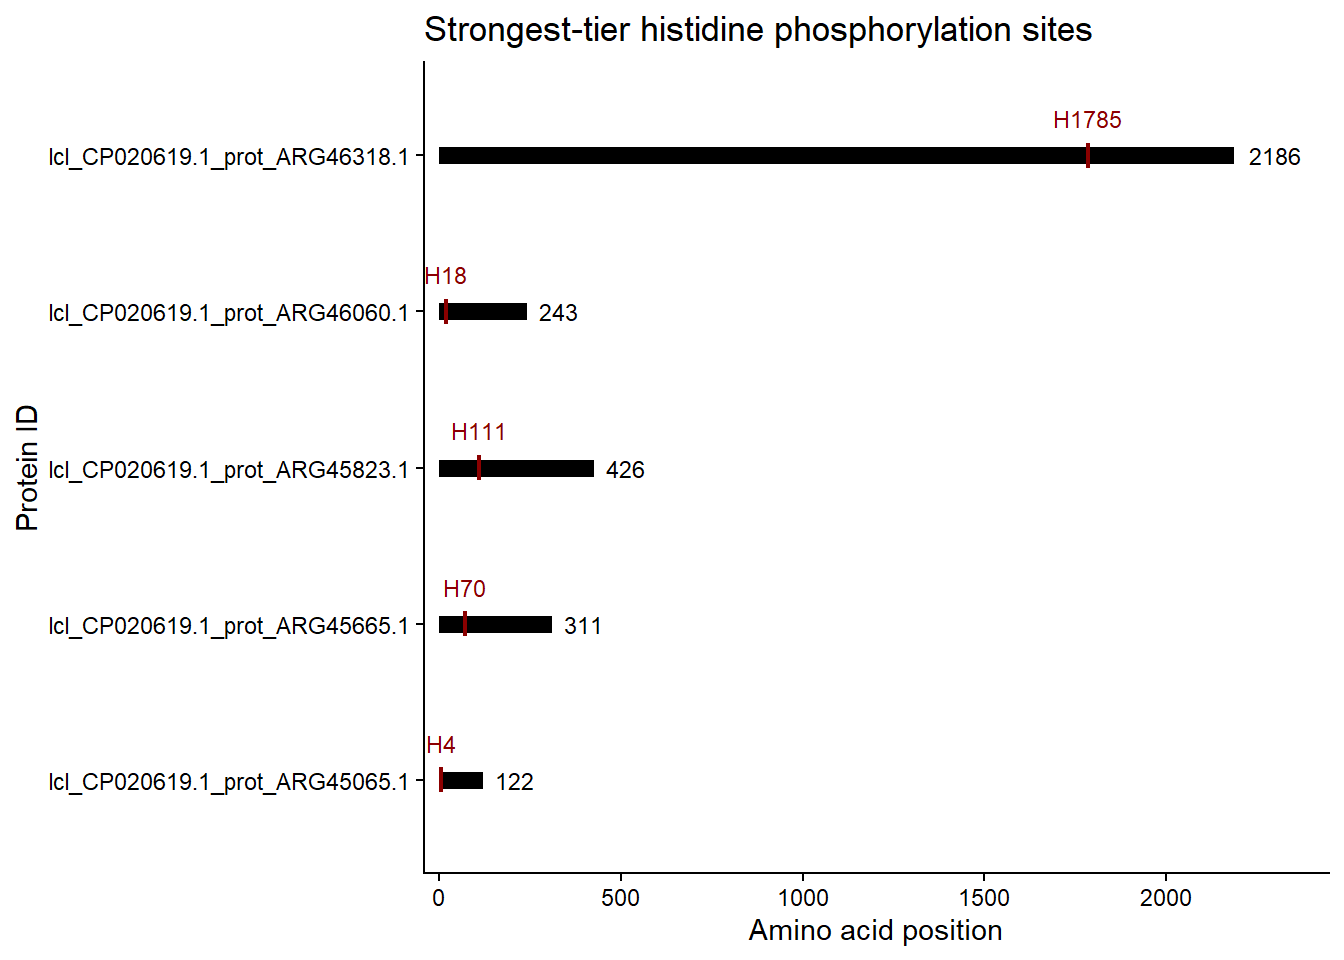
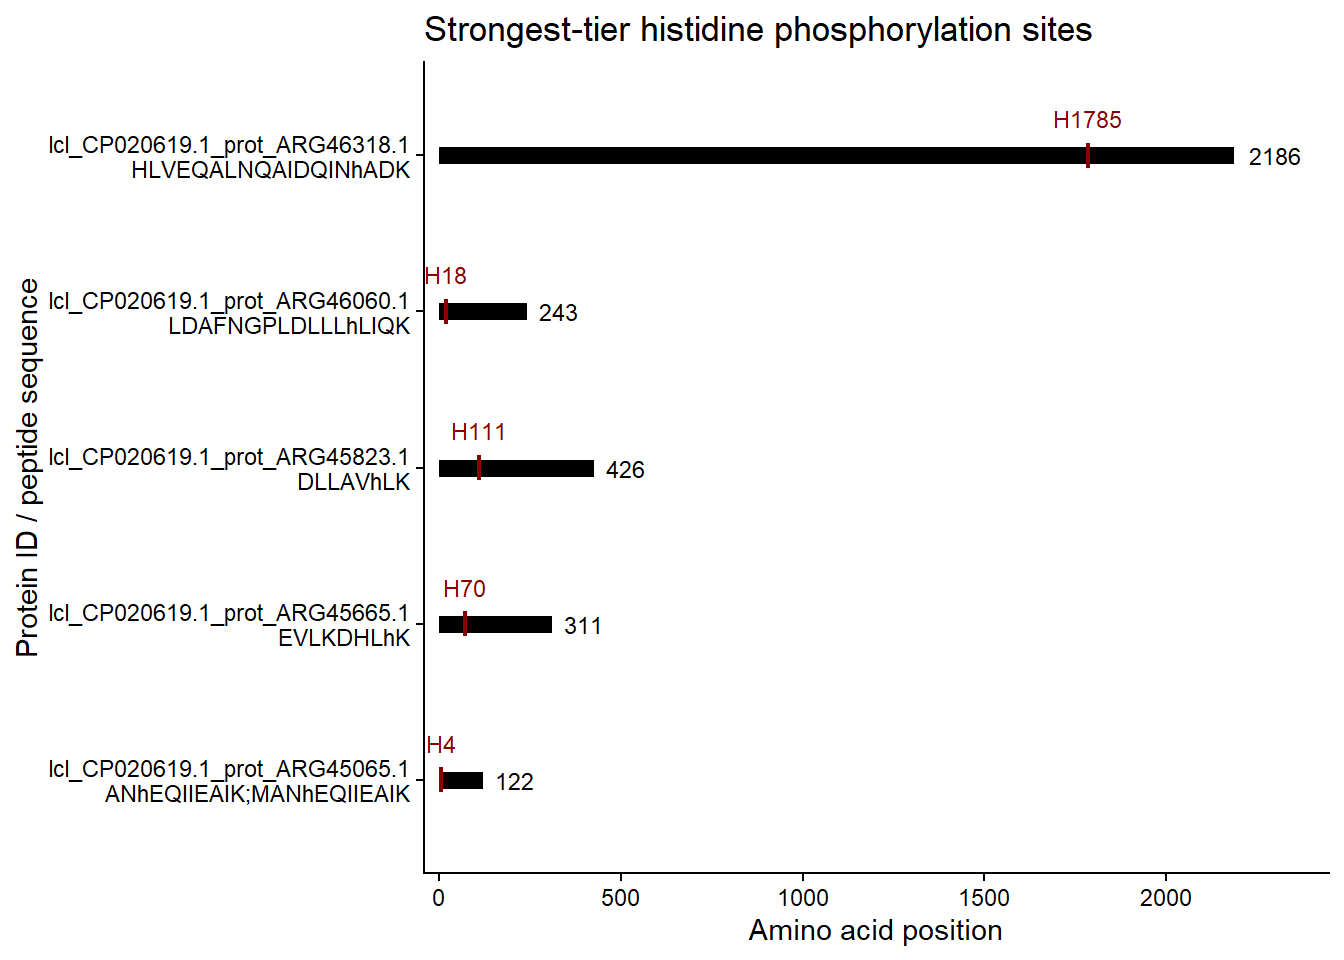
histidine kinase search + taking a look

Changed region(s): [[0.0, 0.2812, 0.3125, 0.6875], [0.0312, 0.7812, 0.3125, 0.8438], [0.0312, 0.125, 0.3125, 0.1875]]

diff --git a/Camilla_Rica/histidine_phosphoRicaCamilla.html b/Camilla_Rica/histidine_phosphoRicaCamilla.html
@@ -825,7 +825,7 @@ odds ratio
 <span id="cb65-20"><a href="#cb65-20" aria-hidden="true" tabindex="-1"></a>    <span class="at">residue =</span> stringr<span class="sc">::</span><span class="fu">str_remove</span>(residue, <span class="st">"^_"</span>)</span>
 <span id="cb65-21"><a href="#cb65-21" aria-hidden="true" tabindex="-1"></a>  ) <span class="sc">%&gt;%</span></span>
 <span id="cb65-22"><a href="#cb65-22" aria-hidden="true" tabindex="-1"></a>  dplyr<span class="sc">::</span><span class="fu">filter</span>(residue <span class="sc">==</span> <span class="st">"H"</span>) <span class="sc">%&gt;%</span></span>
-<span id="cb65-23"><a href="#cb65-23" aria-hidden="true" tabindex="-1"></a>  dplyr<span class="sc">::</span><span class="fu">distinct</span>(protein_Id, position)</span>
+<span id="cb65-23"><a href="#cb65-23" aria-hidden="true" tabindex="-1"></a>  dplyr<span class="sc">::</span><span class="fu">distinct</span>(protein_Id, position, peptide)</span>
 <span id="cb65-24"><a href="#cb65-24" aria-hidden="true" tabindex="-1"></a></span>
 <span id="cb65-25"><a href="#cb65-25" aria-hidden="true" tabindex="-1"></a><span class="co"># Standardize protein IDs and retrieve protein lengths</span></span>
 <span id="cb65-26"><a href="#cb65-26" aria-hidden="true" tabindex="-1"></a>protein_lengths <span class="ot">&lt;-</span> total_prot <span class="sc">%&gt;%</span></span>
@@ -843,58 +843,75 @@ odds ratio
 <span id="cb65-38"><a href="#cb65-38" aria-hidden="true" tabindex="-1"></a>  dplyr<span class="sc">::</span><span class="fu">inner_join</span>(protein_lengths, <span class="at">by =</span> <span class="st">"protein_Id"</span>) <span class="sc">%&gt;%</span></span>
 <span id="cb65-39"><a href="#cb65-39" aria-hidden="true" tabindex="-1"></a>  dplyr<span class="sc">::</span><span class="fu">filter</span>(<span class="sc">!</span><span class="fu">is.na</span>(protein_length))</span>
 <span id="cb65-40"><a href="#cb65-40" aria-hidden="true" tabindex="-1"></a></span>
-<span id="cb65-41"><a href="#cb65-41" aria-hidden="true" tabindex="-1"></a><span class="co"># Plot protein lengths and strongest-tier phosphorylation positions</span></span>
-<span id="cb65-42"><a href="#cb65-42" aria-hidden="true" tabindex="-1"></a>ggplot2<span class="sc">::</span><span class="fu">ggplot</span>(</span>
-<span id="cb65-43"><a href="#cb65-43" aria-hidden="true" tabindex="-1"></a>  plot_data,</span>
-<span id="cb65-44"><a href="#cb65-44" aria-hidden="true" tabindex="-1"></a>  ggplot2<span class="sc">::</span><span class="fu">aes</span>(<span class="at">y =</span> <span class="fu">factor</span>(protein_Id))</span>
-<span id="cb65-45"><a href="#cb65-45" aria-hidden="true" tabindex="-1"></a>) <span class="sc">+</span></span>
-<span id="cb65-46"><a href="#cb65-46" aria-hidden="true" tabindex="-1"></a>  ggplot2<span class="sc">::</span><span class="fu">geom_segment</span>(</span>
-<span id="cb65-47"><a href="#cb65-47" aria-hidden="true" tabindex="-1"></a>    ggplot2<span class="sc">::</span><span class="fu">aes</span>(</span>
-<span id="cb65-48"><a href="#cb65-48" aria-hidden="true" tabindex="-1"></a>      <span class="at">x =</span> <span class="dv">1</span>,</span>
-<span id="cb65-49"><a href="#cb65-49" aria-hidden="true" tabindex="-1"></a>      <span class="at">xend =</span> protein_length,</span>
-<span id="cb65-50"><a href="#cb65-50" aria-hidden="true" tabindex="-1"></a>      <span class="at">yend =</span> <span class="fu">factor</span>(protein_Id)</span>
-<span id="cb65-51"><a href="#cb65-51" aria-hidden="true" tabindex="-1"></a>    ),</span>
-<span id="cb65-52"><a href="#cb65-52" aria-hidden="true" tabindex="-1"></a>    <span class="at">linewidth =</span> <span class="dv">3</span>,</span>
-<span id="cb65-53"><a href="#cb65-53" aria-hidden="true" tabindex="-1"></a>    <span class="at">colour =</span> <span class="st">"black"</span></span>
-<span id="cb65-54"><a href="#cb65-54" aria-hidden="true" tabindex="-1"></a>  ) <span class="sc">+</span></span>
-<span id="cb65-55"><a href="#cb65-55" aria-hidden="true" tabindex="-1"></a>  ggplot2<span class="sc">::</span><span class="fu">geom_text</span>(</span>
-<span id="cb65-56"><a href="#cb65-56" aria-hidden="true" tabindex="-1"></a>    ggplot2<span class="sc">::</span><span class="fu">aes</span>(</span>
-<span id="cb65-57"><a href="#cb65-57" aria-hidden="true" tabindex="-1"></a>      <span class="at">x =</span> protein_length,</span>
-<span id="cb65-58"><a href="#cb65-58" aria-hidden="true" tabindex="-1"></a>      <span class="at">label =</span> protein_length</span>
-<span id="cb65-59"><a href="#cb65-59" aria-hidden="true" tabindex="-1"></a>    ),</span>
-<span id="cb65-60"><a href="#cb65-60" aria-hidden="true" tabindex="-1"></a>    <span class="at">hjust =</span> <span class="sc">-</span><span class="fl">0.3</span>,</span>
-<span id="cb65-61"><a href="#cb65-61" aria-hidden="true" tabindex="-1"></a>    <span class="at">colour =</span> <span class="st">"black"</span>,</span>
-<span id="cb65-62"><a href="#cb65-62" aria-hidden="true" tabindex="-1"></a>    <span class="at">size =</span> <span class="dv">3</span></span>
-<span id="cb65-63"><a href="#cb65-63" aria-hidden="true" tabindex="-1"></a>  ) <span class="sc">+</span></span>
-<span id="cb65-64"><a href="#cb65-64" aria-hidden="true" tabindex="-1"></a>  ggplot2<span class="sc">::</span><span class="fu">scale_x_continuous</span>(</span>
-<span id="cb65-65"><a href="#cb65-65" aria-hidden="true" tabindex="-1"></a>    <span class="at">expand =</span> ggplot2<span class="sc">::</span><span class="fu">expansion</span>(<span class="at">mult =</span> <span class="fu">c</span>(<span class="fl">0.02</span>, <span class="fl">0.12</span>))</span>
-<span id="cb65-66"><a href="#cb65-66" aria-hidden="true" tabindex="-1"></a>  ) <span class="sc">+</span></span>
-<span id="cb65-67"><a href="#cb65-67" aria-hidden="true" tabindex="-1"></a>  ggplot2<span class="sc">::</span><span class="fu">geom_segment</span>(</span>
-<span id="cb65-68"><a href="#cb65-68" aria-hidden="true" tabindex="-1"></a>    ggplot2<span class="sc">::</span><span class="fu">aes</span>(</span>
-<span id="cb65-69"><a href="#cb65-69" aria-hidden="true" tabindex="-1"></a>      <span class="at">x =</span> position,</span>
-<span id="cb65-70"><a href="#cb65-70" aria-hidden="true" tabindex="-1"></a>      <span class="at">xend =</span> position,</span>
-<span id="cb65-71"><a href="#cb65-71" aria-hidden="true" tabindex="-1"></a>      <span class="at">y =</span> <span class="fu">as.numeric</span>(<span class="fu">factor</span>(protein_Id)) <span class="sc">-</span> <span class="fl">0.08</span>,</span>
-<span id="cb65-72"><a href="#cb65-72" aria-hidden="true" tabindex="-1"></a>      <span class="at">yend =</span> <span class="fu">as.numeric</span>(<span class="fu">factor</span>(protein_Id)) <span class="sc">+</span> <span class="fl">0.08</span></span>
-<span id="cb65-73"><a href="#cb65-73" aria-hidden="true" tabindex="-1"></a>    ),</span>
-<span id="cb65-74"><a href="#cb65-74" aria-hidden="true" tabindex="-1"></a>    <span class="at">colour =</span> <span class="st">"darkred"</span>,</span>
-<span id="cb65-75"><a href="#cb65-75" aria-hidden="true" tabindex="-1"></a>    <span class="at">linewidth =</span> <span class="fl">0.8</span></span>
-<span id="cb65-76"><a href="#cb65-76" aria-hidden="true" tabindex="-1"></a>  ) <span class="sc">+</span></span>
-<span id="cb65-77"><a href="#cb65-77" aria-hidden="true" tabindex="-1"></a>  ggplot2<span class="sc">::</span><span class="fu">geom_text</span>(</span>
-<span id="cb65-78"><a href="#cb65-78" aria-hidden="true" tabindex="-1"></a>    ggplot2<span class="sc">::</span><span class="fu">aes</span>(</span>
-<span id="cb65-79"><a href="#cb65-79" aria-hidden="true" tabindex="-1"></a>      <span class="at">x =</span> position,</span>
-<span id="cb65-80"><a href="#cb65-80" aria-hidden="true" tabindex="-1"></a>      <span class="at">y =</span> <span class="fu">as.numeric</span>(<span class="fu">factor</span>(protein_Id)) <span class="sc">+</span> <span class="fl">0.18</span>,</span>
-<span id="cb65-81"><a href="#cb65-81" aria-hidden="true" tabindex="-1"></a>      <span class="at">label =</span> <span class="fu">paste0</span>(<span class="st">"H"</span>, position)</span>
-<span id="cb65-82"><a href="#cb65-82" aria-hidden="true" tabindex="-1"></a>    ),</span>
-<span id="cb65-83"><a href="#cb65-83" aria-hidden="true" tabindex="-1"></a>    <span class="at">colour =</span> <span class="st">"darkred"</span>,</span>
-<span id="cb65-84"><a href="#cb65-84" aria-hidden="true" tabindex="-1"></a>    <span class="at">size =</span> <span class="dv">3</span>,</span>
-<span id="cb65-85"><a href="#cb65-85" aria-hidden="true" tabindex="-1"></a>    <span class="at">vjust =</span> <span class="dv">0</span></span>
-<span id="cb65-86"><a href="#cb65-86" aria-hidden="true" tabindex="-1"></a>  ) <span class="sc">+</span></span>
-<span id="cb65-87"><a href="#cb65-87" aria-hidden="true" tabindex="-1"></a>  ggplot2<span class="sc">::</span><span class="fu">labs</span>(</span>
-<span id="cb65-88"><a href="#cb65-88" aria-hidden="true" tabindex="-1"></a>    <span class="at">title =</span> <span class="st">"Strongest-tier histidine phosphorylation sites"</span>,</span>
-<span id="cb65-89"><a href="#cb65-89" aria-hidden="true" tabindex="-1"></a>    <span class="at">x =</span> <span class="st">"Amino acid position"</span>,</span>
-<span id="cb65-90"><a href="#cb65-90" aria-hidden="true" tabindex="-1"></a>    <span class="at">y =</span> <span class="st">"Protein ID"</span></span>
-<span id="cb65-91"><a href="#cb65-91" aria-hidden="true" tabindex="-1"></a>  ) <span class="sc">+</span></span>
-<span id="cb65-92"><a href="#cb65-92" aria-hidden="true" tabindex="-1"></a>  ggplot2<span class="sc">::</span><span class="fu">theme_classic</span>()</span></code></pre></div><button title="Copy to Clipboard" class="code-copy-button"><i class="bi"></i></button></div>
+<span id="cb65-41"><a href="#cb65-41" aria-hidden="true" tabindex="-1"></a><span class="co"># Create labels with protein ID and peptide sequence</span></span>
+<span id="cb65-42"><a href="#cb65-42" aria-hidden="true" tabindex="-1"></a>protein_labels <span class="ot">&lt;-</span> plot_data <span class="sc">%&gt;%</span></span>
+<span id="cb65-43"><a href="#cb65-43" aria-hidden="true" tabindex="-1"></a>  dplyr<span class="sc">::</span><span class="fu">group_by</span>(protein_Id) <span class="sc">%&gt;%</span></span>
+<span id="cb65-44"><a href="#cb65-44" aria-hidden="true" tabindex="-1"></a>  dplyr<span class="sc">::</span><span class="fu">summarise</span>(</span>
+<span id="cb65-45"><a href="#cb65-45" aria-hidden="true" tabindex="-1"></a>    <span class="at">peptide =</span> <span class="fu">paste</span>(<span class="fu">unique</span>(peptide), <span class="at">collapse =</span> <span class="st">"; "</span>),</span>
+<span id="cb65-46"><a href="#cb65-46" aria-hidden="true" tabindex="-1"></a>    <span class="at">.groups =</span> <span class="st">"drop"</span></span>
+<span id="cb65-47"><a href="#cb65-47" aria-hidden="true" tabindex="-1"></a>  ) <span class="sc">%&gt;%</span></span>
+<span id="cb65-48"><a href="#cb65-48" aria-hidden="true" tabindex="-1"></a>  dplyr<span class="sc">::</span><span class="fu">mutate</span>(</span>
+<span id="cb65-49"><a href="#cb65-49" aria-hidden="true" tabindex="-1"></a>    <span class="at">axis_label =</span> <span class="fu">paste0</span>(protein_Id, <span class="st">"</span><span class="sc">\n</span><span class="st">"</span>, peptide)</span>
+<span id="cb65-50"><a href="#cb65-50" aria-hidden="true" tabindex="-1"></a>  )</span>
+<span id="cb65-51"><a href="#cb65-51" aria-hidden="true" tabindex="-1"></a></span>
+<span id="cb65-52"><a href="#cb65-52" aria-hidden="true" tabindex="-1"></a><span class="co"># Plot protein lengths and tier1 phosphorylation positions</span></span>
+<span id="cb65-53"><a href="#cb65-53" aria-hidden="true" tabindex="-1"></a>ggplot2<span class="sc">::</span><span class="fu">ggplot</span>(</span>
+<span id="cb65-54"><a href="#cb65-54" aria-hidden="true" tabindex="-1"></a>  plot_data,</span>
+<span id="cb65-55"><a href="#cb65-55" aria-hidden="true" tabindex="-1"></a>  ggplot2<span class="sc">::</span><span class="fu">aes</span>(<span class="at">y =</span> <span class="fu">factor</span>(protein_Id))</span>
+<span id="cb65-56"><a href="#cb65-56" aria-hidden="true" tabindex="-1"></a>) <span class="sc">+</span></span>
+<span id="cb65-57"><a href="#cb65-57" aria-hidden="true" tabindex="-1"></a>  ggplot2<span class="sc">::</span><span class="fu">geom_segment</span>(</span>
+<span id="cb65-58"><a href="#cb65-58" aria-hidden="true" tabindex="-1"></a>    ggplot2<span class="sc">::</span><span class="fu">aes</span>(</span>
+<span id="cb65-59"><a href="#cb65-59" aria-hidden="true" tabindex="-1"></a>      <span class="at">x =</span> <span class="dv">1</span>,</span>
+<span id="cb65-60"><a href="#cb65-60" aria-hidden="true" tabindex="-1"></a>      <span class="at">xend =</span> protein_length,</span>
+<span id="cb65-61"><a href="#cb65-61" aria-hidden="true" tabindex="-1"></a>      <span class="at">yend =</span> <span class="fu">factor</span>(protein_Id)</span>
+<span id="cb65-62"><a href="#cb65-62" aria-hidden="true" tabindex="-1"></a>    ),</span>
+<span id="cb65-63"><a href="#cb65-63" aria-hidden="true" tabindex="-1"></a>    <span class="at">linewidth =</span> <span class="dv">3</span>,</span>
+<span id="cb65-64"><a href="#cb65-64" aria-hidden="true" tabindex="-1"></a>    <span class="at">colour =</span> <span class="st">"black"</span></span>
+<span id="cb65-65"><a href="#cb65-65" aria-hidden="true" tabindex="-1"></a>  ) <span class="sc">+</span></span>
+<span id="cb65-66"><a href="#cb65-66" aria-hidden="true" tabindex="-1"></a>  ggplot2<span class="sc">::</span><span class="fu">geom_text</span>(</span>
+<span id="cb65-67"><a href="#cb65-67" aria-hidden="true" tabindex="-1"></a>    ggplot2<span class="sc">::</span><span class="fu">aes</span>(</span>
+<span id="cb65-68"><a href="#cb65-68" aria-hidden="true" tabindex="-1"></a>      <span class="at">x =</span> protein_length,</span>
+<span id="cb65-69"><a href="#cb65-69" aria-hidden="true" tabindex="-1"></a>      <span class="at">label =</span> protein_length</span>
+<span id="cb65-70"><a href="#cb65-70" aria-hidden="true" tabindex="-1"></a>    ),</span>
+<span id="cb65-71"><a href="#cb65-71" aria-hidden="true" tabindex="-1"></a>    <span class="at">hjust =</span> <span class="sc">-</span><span class="fl">0.3</span>,</span>
+<span id="cb65-72"><a href="#cb65-72" aria-hidden="true" tabindex="-1"></a>    <span class="at">colour =</span> <span class="st">"black"</span>,</span>
+<span id="cb65-73"><a href="#cb65-73" aria-hidden="true" tabindex="-1"></a>    <span class="at">size =</span> <span class="dv">3</span></span>
+<span id="cb65-74"><a href="#cb65-74" aria-hidden="true" tabindex="-1"></a>  ) <span class="sc">+</span></span>
+<span id="cb65-75"><a href="#cb65-75" aria-hidden="true" tabindex="-1"></a>  ggplot2<span class="sc">::</span><span class="fu">scale_x_continuous</span>(</span>
+<span id="cb65-76"><a href="#cb65-76" aria-hidden="true" tabindex="-1"></a>    <span class="at">expand =</span> ggplot2<span class="sc">::</span><span class="fu">expansion</span>(<span class="at">mult =</span> <span class="fu">c</span>(<span class="fl">0.02</span>, <span class="fl">0.12</span>))</span>
+<span id="cb65-77"><a href="#cb65-77" aria-hidden="true" tabindex="-1"></a>  ) <span class="sc">+</span></span>
+<span id="cb65-78"><a href="#cb65-78" aria-hidden="true" tabindex="-1"></a>  ggplot2<span class="sc">::</span><span class="fu">geom_segment</span>(</span>
+<span id="cb65-79"><a href="#cb65-79" aria-hidden="true" tabindex="-1"></a>    ggplot2<span class="sc">::</span><span class="fu">aes</span>(</span>
+<span id="cb65-80"><a href="#cb65-80" aria-hidden="true" tabindex="-1"></a>      <span class="at">x =</span> position,</span>
+<span id="cb65-81"><a href="#cb65-81" aria-hidden="true" tabindex="-1"></a>      <span class="at">xend =</span> position,</span>
+<span id="cb65-82"><a href="#cb65-82" aria-hidden="true" tabindex="-1"></a>      <span class="at">y =</span> <span class="fu">as.numeric</span>(<span class="fu">factor</span>(protein_Id)) <span class="sc">-</span> <span class="fl">0.08</span>,</span>
+<span id="cb65-83"><a href="#cb65-83" aria-hidden="true" tabindex="-1"></a>      <span class="at">yend =</span> <span class="fu">as.numeric</span>(<span class="fu">factor</span>(protein_Id)) <span class="sc">+</span> <span class="fl">0.08</span></span>
+<span id="cb65-84"><a href="#cb65-84" aria-hidden="true" tabindex="-1"></a>    ),</span>
+<span id="cb65-85"><a href="#cb65-85" aria-hidden="true" tabindex="-1"></a>    <span class="at">colour =</span> <span class="st">"darkred"</span>,</span>
+<span id="cb65-86"><a href="#cb65-86" aria-hidden="true" tabindex="-1"></a>    <span class="at">linewidth =</span> <span class="fl">0.8</span></span>
+<span id="cb65-87"><a href="#cb65-87" aria-hidden="true" tabindex="-1"></a>  ) <span class="sc">+</span></span>
+<span id="cb65-88"><a href="#cb65-88" aria-hidden="true" tabindex="-1"></a>  ggplot2<span class="sc">::</span><span class="fu">geom_text</span>(</span>
+<span id="cb65-89"><a href="#cb65-89" aria-hidden="true" tabindex="-1"></a>    ggplot2<span class="sc">::</span><span class="fu">aes</span>(</span>
+<span id="cb65-90"><a href="#cb65-90" aria-hidden="true" tabindex="-1"></a>      <span class="at">x =</span> position,</span>
+<span id="cb65-91"><a href="#cb65-91" aria-hidden="true" tabindex="-1"></a>      <span class="at">y =</span> <span class="fu">as.numeric</span>(<span class="fu">factor</span>(protein_Id)) <span class="sc">+</span> <span class="fl">0.18</span>,</span>
+<span id="cb65-92"><a href="#cb65-92" aria-hidden="true" tabindex="-1"></a>      <span class="at">label =</span> <span class="fu">paste0</span>(<span class="st">"H"</span>, position)</span>
+<span id="cb65-93"><a href="#cb65-93" aria-hidden="true" tabindex="-1"></a>    ),</span>
+<span id="cb65-94"><a href="#cb65-94" aria-hidden="true" tabindex="-1"></a>    <span class="at">colour =</span> <span class="st">"darkred"</span>,</span>
+<span id="cb65-95"><a href="#cb65-95" aria-hidden="true" tabindex="-1"></a>    <span class="at">size =</span> <span class="dv">3</span>,</span>
+<span id="cb65-96"><a href="#cb65-96" aria-hidden="true" tabindex="-1"></a>    <span class="at">vjust =</span> <span class="dv">0</span></span>
+<span id="cb65-97"><a href="#cb65-97" aria-hidden="true" tabindex="-1"></a>  ) <span class="sc">+</span></span>
+<span id="cb65-98"><a href="#cb65-98" aria-hidden="true" tabindex="-1"></a>  ggplot2<span class="sc">::</span><span class="fu">scale_y_discrete</span>(</span>
+<span id="cb65-99"><a href="#cb65-99" aria-hidden="true" tabindex="-1"></a>    <span class="at">labels =</span> stats<span class="sc">::</span><span class="fu">setNames</span>(</span>
+<span id="cb65-100"><a href="#cb65-100" aria-hidden="true" tabindex="-1"></a>      protein_labels<span class="sc">$</span>axis_label,</span>
+<span id="cb65-101"><a href="#cb65-101" aria-hidden="true" tabindex="-1"></a>      protein_labels<span class="sc">$</span>protein_Id</span>
+<span id="cb65-102"><a href="#cb65-102" aria-hidden="true" tabindex="-1"></a>    )</span>
+<span id="cb65-103"><a href="#cb65-103" aria-hidden="true" tabindex="-1"></a>  ) <span class="sc">+</span></span>
+<span id="cb65-104"><a href="#cb65-104" aria-hidden="true" tabindex="-1"></a>  ggplot2<span class="sc">::</span><span class="fu">labs</span>(</span>
+<span id="cb65-105"><a href="#cb65-105" aria-hidden="true" tabindex="-1"></a>    <span class="at">title =</span> <span class="st">"Strongest-tier histidine phosphorylation sites"</span>,</span>
+<span id="cb65-106"><a href="#cb65-106" aria-hidden="true" tabindex="-1"></a>    <span class="at">x =</span> <span class="st">"Amino acid position"</span>,</span>
+<span id="cb65-107"><a href="#cb65-107" aria-hidden="true" tabindex="-1"></a>    <span class="at">y =</span> <span class="st">"Protein ID / peptide sequence"</span></span>
+<span id="cb65-108"><a href="#cb65-108" aria-hidden="true" tabindex="-1"></a>  ) <span class="sc">+</span></span>
+<span id="cb65-109"><a href="#cb65-109" aria-hidden="true" tabindex="-1"></a>  ggplot2<span class="sc">::</span><span class="fu">theme_classic</span>()</span></code></pre></div><button title="Copy to Clipboard" class="code-copy-button"><i class="bi"></i></button></div>
 <div class="cell-output-display">
 <div>
 <figure class="figure">
@@ -903,6 +920,7 @@ odds ratio
 </div>
 </div>
 </div>
+<p>for the H18 it seems to be retained across many examples according to Blast. So maybe conserved in ScpA proteins. ScpA H18 is highly conserved among the homologues based on the Blast dataset when put into clustal omega. Has partially solvent accessible sidechain (alphaFold) surrounded by hydrophobic residues.</p>
 <p>Now all phosphosites on these 5 proteins.</p>
 <div class="cell">
 <div class="code-copy-outer-scaffold"><div class="sourceCode cell-code" id="cb66"><pre class="sourceCode r code-with-copy"><code class="sourceCode r"><span id="cb66-1"><a href="#cb66-1" aria-hidden="true" tabindex="-1"></a><span class="co"># Identify the 5 proteins from the strongest-tier histidine sites</span></span>
